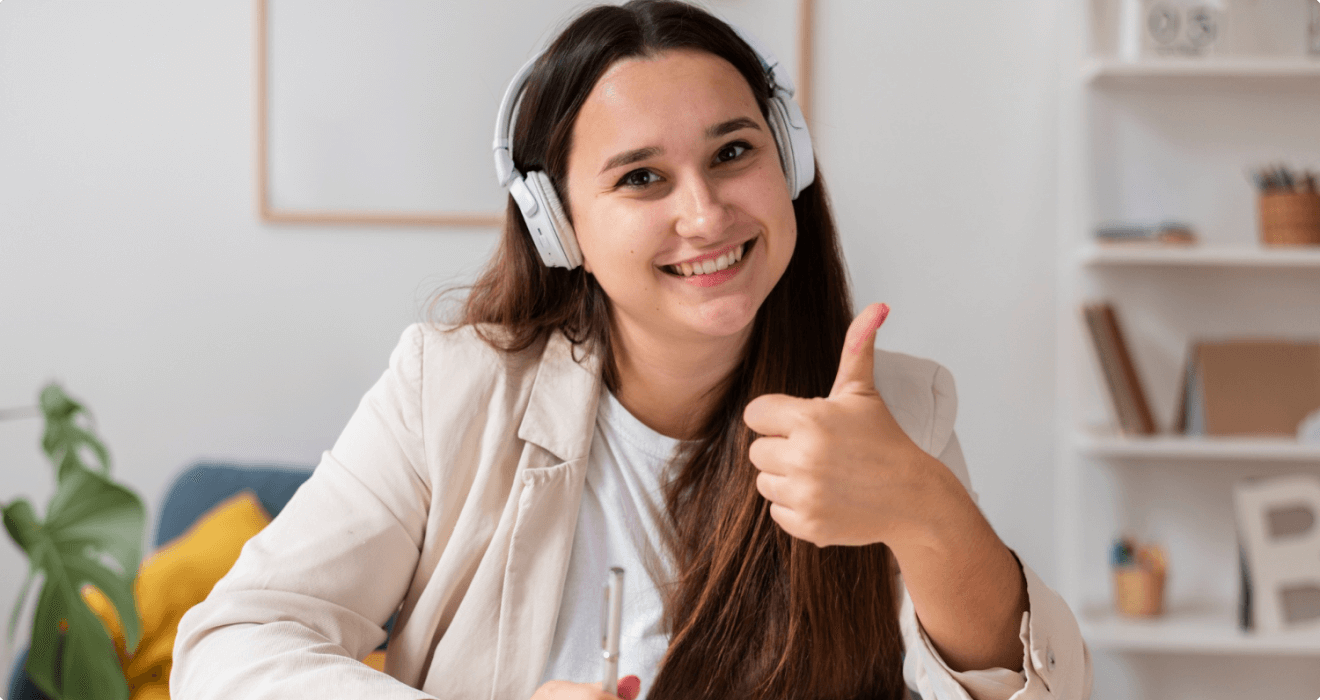
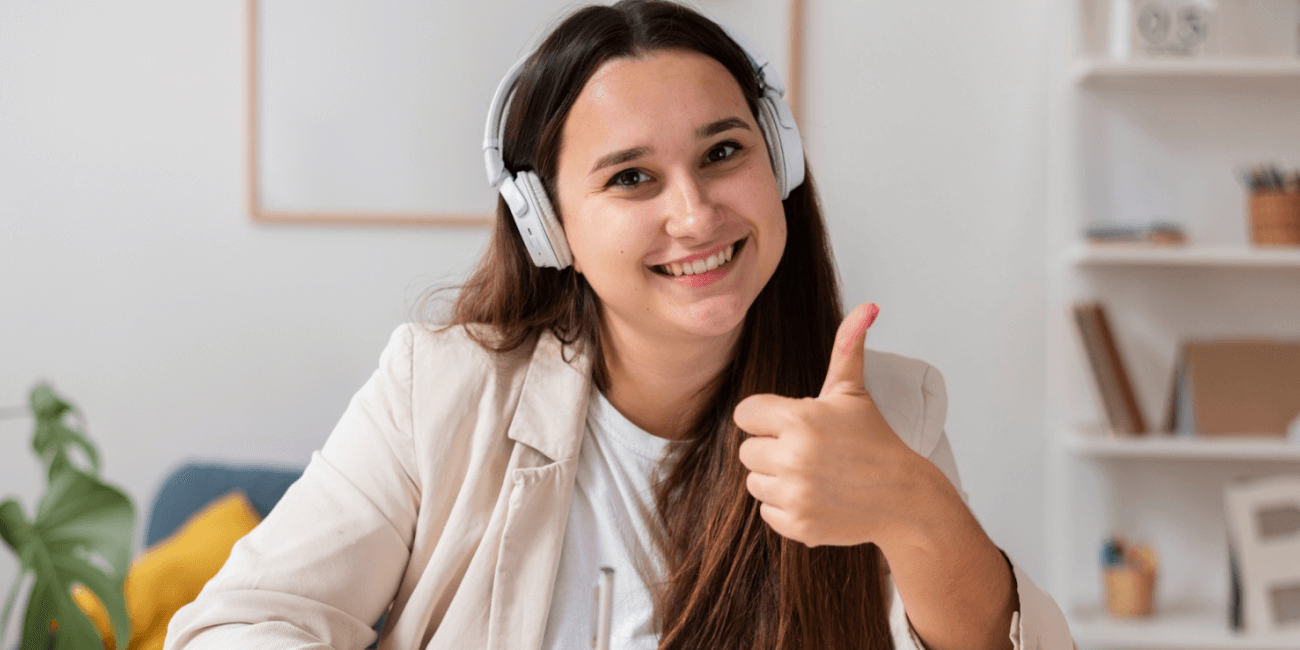
slider

diff --git a/index.html b/index.html
@@ -8,9 +8,20 @@
     <title>LearnBD</title>
     <!-- Bootstrap css CDN-->
     <link rel="stylesheet" href="https://cdn.jsdelivr.net/npm/bootstrap@5.2.1/dist/css/bootstrap.min.css">
+
+    <style>
+        .overlay {
+            background-color: #0000006b;
+            width: 100%;
+            padding: 20px;
+            border-radius: 10px;
+        }
+    </style>
+
 </head>
 
 <body>
+
     <header class="container">
         <nav class="navbar navbar-expand-lg bg-light">
             <div class="container-fluid">
@@ -49,7 +60,70 @@
             </div>
         </nav>
     </header>
-    <main>
+
+
+
+    <main class="container">
+
+        <!-- Slider -->
+        <section>
+            <div id="carouselExampleCaptions" class="carousel slide" data-bs-ride="false">
+                <div class="carousel-indicators">
+                    <button type="button" data-bs-target="#carouselExampleCaptions" data-bs-slide-to="0" class="active"
+                        aria-current="true" aria-label="Slide 1"></button>
+                    <button type="button" data-bs-target="#carouselExampleCaptions" data-bs-slide-to="1"
+                        aria-label="Slide 2"></button>
+                    <button type="button" data-bs-target="#carouselExampleCaptions" data-bs-slide-to="2"
+                        aria-label="Slide 3"></button>
+                </div>
+                <div class="carousel-inner">
+                    <div class="carousel-item active">
+                        <img src="img/cover/cover-1.png" class="d-block w-100   " alt="...">
+                        <div class="carousel-caption d-none d-md-block">
+                            <div class="overlay">
+                                <h1>Get Started Digital Learning</h1>
+                                <p>Digital learning is a learning method based on the use of new digital tools <br> to
+                                    enable learners to learn in a different way</p>
+                                <button class="btn btn-primary">Get Started</button>
+                            </div>
+                        </div>
+                    </div>
+                    <div class="carousel-item">
+                        <img src="img/cover/cover-2.jpg" class="d-block w-100   " alt="...">
+                        <div class="carousel-caption d-none d-md-block">
+                            <div class="overlay">
+                                <h1>Get Started Digital Learning</h1>
+                                <p>Digital learning is a learning method based on the use of new digital tools <br> to
+                                    enable learners to learn in a different way</p>
+                                <button class="btn btn-primary">Get Started</button>
+                            </div>
+                        </div>
+                    </div>
+                    <div class="carousel-item">
+                        <img src="img/cover/cover-3.jpg" class="d-block w-100   " alt="...">
+                        <div class="carousel-caption d-none d-md-block">
+                            <div class="overlay">
+                                <h1>Get Started Digital Learning</h1>
+                                <p>Digital learning is a learning method based on the use of new digital tools <br> to
+                                    enable learners to learn in a different way</p>
+                                <button class="btn btn-primary">Get Started</button>
+                            </div>
+                        </div>
+                    </div>
+                </div>
+                <button class="carousel-control-prev" type="button" data-bs-target="#carouselExampleCaptions"
+                    data-bs-slide="prev">
+                    <span class="carousel-control-prev-icon" aria-hidden="true"></span>
+                    <span class="visually-hidden">Previous</span>
+                </button>
+                <button class="carousel-control-next" type="button" data-bs-target="#carouselExampleCaptions"
+                    data-bs-slide="next">
+                    <span class="carousel-control-next-icon" aria-hidden="true"></span>
+                    <span class="visually-hidden">Next</span>
+                </button>
+            </div>
+        </section>
+        <!-- Slider End -->
 
     </main>
 
